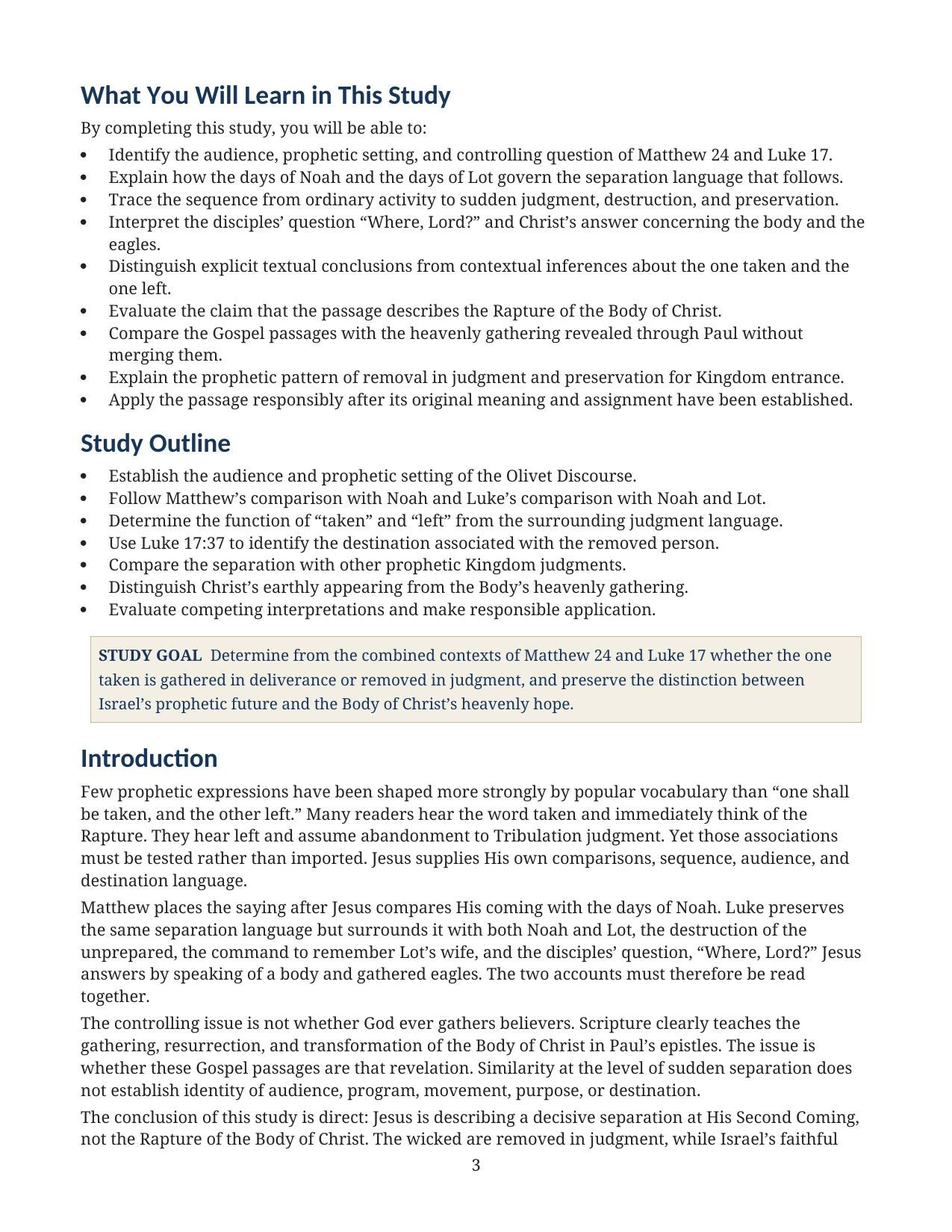
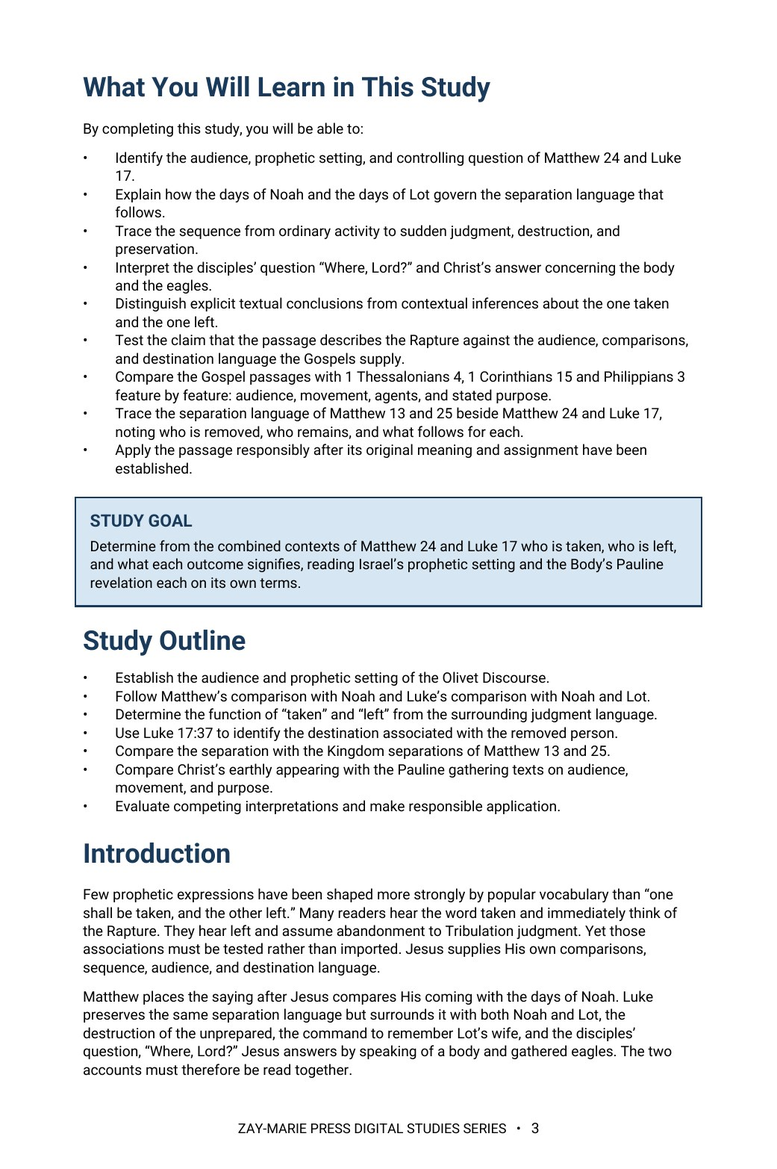
Study 29: Roboto/Standard rebuild, Conclusion Framework wording, §17 rewrites, Standard cover with PASSAGES label, previews 2/3/8, 16 pages; PAM audit v1.58
Claude-Session: https://claude.ai/code/session_01TLNFW47XCW6YAMUxScR3v4

Changed region(s): [[0.0922, 0.0613, 0.9222, 0.9815]]

diff --git a/study-29-one-taken-and-the-other-left.html b/study-29-one-taken-and-the-other-left.html
@@ -2,12 +2,12 @@
 <html lang="en"><head><meta charset="utf-8"><meta name="viewport" content="width=device-width,initial-scale=1"><title>One Taken and the Other Left - Study 29 | Zay-Marie Press</title><meta name="description" content="Examine Matthew 24:40–41 and Luke 17:34–36 as prophetic separation at Christ’s Second Coming, not the Rapture of the Body of Christ."><link rel="stylesheet" href="styles.css?v=20260928-8"><link rel="icon" type="image/png" href="assets/zay-marie-press-favicon.png"><style>
 .study-detail-page{background:#fff;color:#252525}.detail-hero{background:linear-gradient(135deg,#f8f5ec,#e3ece2);padding:58px 0}.detail-hero-grid{display:grid;grid-template-columns:minmax(250px,.72fr) minmax(0,1.28fr);gap:58px;align-items:center}.detail-cover{max-width:390px;margin:auto}.detail-cover img{display:block;width:100%;height:auto;box-shadow:0 14px 36px rgba(8,45,69,.18)}.detail-hero h1{font-size:clamp(2.7rem,5vw,4.7rem);line-height:1.02;margin:8px 0 10px;color:#143823}.detail-subtitle{font-family:Georgia,serif;font-size:1.35rem;font-weight:700;color:#082d45;margin:0 0 7px}.detail-kicker{font-family:Georgia,serif;font-style:italic;font-size:1.05rem;color:#4a4a44;margin:0 0 22px}.detail-copy{font-size:1.08rem;line-height:1.65;max-width:760px}.detail-buyline{display:flex;align-items:center;gap:18px;flex-wrap:wrap;margin-top:25px}.detail-price{font-family:Georgia,serif;font-size:2rem;font-weight:700;color:#143823}.detail-format,.preview-card .page-no{font-family:Arial,sans-serif;font-size:.76rem;font-weight:700;letter-spacing:.1em;text-transform:uppercase;color:#176b3a}.detail-button{display:inline-block;background:#176b3a;color:#fff;padding:13px 22px;font-family:Arial,sans-serif;font-size:.8rem;font-weight:700;letter-spacing:.07em;text-transform:uppercase}.detail-button.pending{opacity:.72;cursor:default}.detail-section{padding:66px 0}.detail-section.soft{background:#f6f7f2}.detail-section.cream{background:#faf8f2}.detail-section h2{color:#143823;margin:6px 0 18px;font-size:clamp(2rem,3.4vw,3rem)}.detail-section .lead{max-width:920px;font-size:1.1rem;line-height:1.62}.study-points{display:grid;grid-template-columns:repeat(3,1fr);gap:18px;margin-top:28px;margin-bottom:28px}.study-point,.scripture-card,.preview-card,.include-item{background:#fff;border:1px solid var(--line);text-align:left}.study-point{border-top:3px solid #176b3a;padding:22px}.study-point h3{color:#143823;margin:0 0 8px;font-size:1.2rem}.study-point p,.scripture-card p,.preview-card p,.include-item p{margin:0;line-height:1.55}.scripture-grid{display:grid;grid-template-columns:repeat(4,1fr);gap:14px;margin-top:24px;margin-bottom:24px}.scripture-card{padding:22px 20px;color:#143823}.scripture-card h3{margin:0 0 9px;font-family:Georgia,serif;font-size:1rem;line-height:1.35}.scripture-card p{font-size:.94rem;color:#45453f}.excerpt{max-width:900px;margin:28px auto;border-left:4px solid #b8871c;padding:10px 0 10px 28px}.excerpt blockquote{font-family:Georgia,serif;font-size:clamp(1.45rem,2.5vw,2rem);line-height:1.45;color:#143823;margin:0 0 16px}.excerpt p{line-height:1.6;margin:0}.preview-grid{display:grid;grid-template-columns:repeat(2,1fr);gap:20px;margin-top:28px;margin-bottom:28px}.preview-card{padding:18px;min-height:210px;box-shadow:0 7px 20px rgba(20,40,25,.05)}.preview-image-link{display:block;margin:0 0 18px}.preview-image-link img{display:block;width:100%;height:auto;border:1px solid #d8d1bf;box-shadow:0 8px 22px rgba(20,40,25,.1);transition:transform .18s ease,box-shadow .18s ease}.preview-image-link:hover img{transform:translateY(-2px);box-shadow:0 11px 28px rgba(20,40,25,.16)}.preview-card h3{color:#143823;margin:8px 0 10px}.preview-instruction{margin:10px 0 0;font-family:Arial,sans-serif;font-size:.78rem;letter-spacing:.04em;color:#5b5b55}.includes-grid{display:grid;grid-template-columns:repeat(4,1fr);gap:14px;margin-top:26px}.include-item{padding:22px 20px;color:#143823}.include-item h3{margin:0 0 9px;font-family:Arial,sans-serif;font-size:.86rem;line-height:1.35;letter-spacing:.02em}.include-item p{font-size:.94rem;color:#45453f}.final-buy{background:#082d45;color:#fff;border-top:4px solid #b8871c;padding:42px 48px;display:grid;grid-template-columns:1fr auto;gap:36px;align-items:center}.final-buy .eyebrow,.final-buy h2,.final-buy .detail-price{color:#fff}.final-buy h2{margin:7px 0 6px}.final-buy p{margin:0}.final-offer{text-align:center}.back-link{display:inline-block;margin-top:18px;color:#143823;font-family:Arial,sans-serif;font-weight:700;text-decoration:none}.preview-lightbox{position:fixed;inset:0;z-index:10000;display:none;align-items:flex-start;justify-content:center;background:rgba(8,22,16,.88);padding:24px;overflow:auto}.preview-lightbox.open{display:flex}.preview-lightbox img{display:block;width:auto;height:auto;max-width:none;box-shadow:0 18px 55px rgba(0,0,0,.4);background:#fff}.preview-lightbox-close{position:fixed;top:18px;right:24px;z-index:10001;width:46px;height:46px;border:1px solid rgba(255,255,255,.65);border-radius:50%;background:rgba(0,0,0,.55);color:#fff;font:32px/1 Arial,sans-serif;cursor:pointer}@media(max-width:900px){.detail-hero-grid{grid-template-columns:1fr;gap:34px}.detail-cover{max-width:330px}.study-points{grid-template-columns:repeat(2,1fr)}.scripture-grid,.includes-grid{grid-template-columns:repeat(2,1fr)}.preview-grid,.final-buy{grid-template-columns:1fr}.final-offer{text-align:left}}@media(max-width:560px){.detail-hero{padding:42px 0}.detail-section{padding:50px 0}.study-points,.scripture-grid,.includes-grid{grid-template-columns:1fr}.final-buy{padding:32px 24px}.detail-buyline{align-items:flex-start;flex-direction:column;gap:8px}.preview-lightbox{padding:58px 10px 24px}.preview-lightbox img{width:100%;max-width:100%;height:auto}}.study-distinction{max-width:920px;margin-top:28px;margin-bottom:28px;padding:26px 28px;background:#fff;border:1px solid #d8d1bf;border-left:4px solid #b8871c}.study-distinction h3{margin:0 0 10px;color:#143823}.study-distinction p{margin:0 0 14px;line-height:1.62}.study-distinction p:last-child{margin-bottom:0}.study-distinction a{font-family:Arial,sans-serif;font-weight:700;color:#176b3a;text-decoration:none}</style></head><body class="study-detail-page">
 <header class="site-header"><div class="wrap nav"><a class="logo" href="index.html" aria-label="Zay-Marie Press home"><img src="assets/zay-marie-press-logo-hq.png" alt="Zay-Marie Press" width="420" height="238"></a><button class="menu-toggle" type="button" aria-expanded="false" aria-controls="primary-nav">MENU</button><nav aria-label="Primary navigation" class="primary-nav" id="primary-nav"><a href="index.html">HOME</a><a href="books.html">BOOKS</a><a href="series.html">SERIES</a><a class="active" aria-current="page" href="digital-studies.html">DIGITAL STUDIES</a><a href="biblical-hermeneutics-course.html">COURSE</a><a href="about.html">ABOUT</a><a href="resources.html">RESOURCES</a><a href="contact.html">CONTACT</a></nav></div></header><main>
-<section class="detail-hero"><div class="wrap detail-hero-grid"><div class="detail-cover"><img src="assets/study-29-cover-v4.webp" alt="One Taken and the Other Left - Study 29 cover"></div><div><div class="eyebrow">STUDY 29 · DIGITAL STUDY</div><h1>One Taken and the Other Left</h1><p class="detail-subtitle">Matthew 24:40–41 and Luke 17:34–36 in the Context of Christ’s Second Coming</p><p class="detail-kicker">A Contextual Study of Prophetic Separation, Judgment, Preservation, and the Body’s Heavenly Hope</p><p class="detail-copy">Jesus compares His coming with the days of Noah and the days of Lot before describing one person taken and another left. Luke then records the disciples’ destination question: “Where, Lord?”</p><p class="detail-copy">This study reads both accounts together and shows why the one taken is removed in judgment while the one left belongs to the remnant preserved for Kingdom entrance. It also distinguishes this prophetic separation from the Rapture revealed through Paul.</p><div class="detail-buyline"><span class="detail-price">$5.99</span><span class="detail-format">Digital PDF</span><span class="detail-button pending" aria-disabled="true">Checkout Coming Soon</span></div></div></div></section>
+<section class="detail-hero"><div class="wrap detail-hero-grid"><div class="detail-cover"><picture><source srcset="assets/study-29-cover.webp" type="image/webp"><img src="assets/study-29-cover.jpg" alt="One Taken and the Other Left - Study 29 cover"></picture></div><div><div class="eyebrow">STUDY 29 · DIGITAL STUDY</div><h1>One Taken and the Other Left</h1><p class="detail-subtitle">Matthew 24:40–41 and Luke 17:34–36 in the Context of Christ’s Second Coming</p><p class="detail-kicker">A Contextual Study of Prophetic Separation, Judgment, Preservation, and the Body’s Heavenly Hope</p><p class="detail-copy">Jesus compares His coming with the days of Noah and the days of Lot before describing one person taken and another left. Luke then records the disciples’ destination question: “Where, Lord?”</p><p class="detail-copy">This study reads both accounts together and shows why the one taken is removed in judgment while the one left belongs to the remnant preserved for Kingdom entrance. It also distinguishes this prophetic separation from the Rapture revealed through Paul.</p><div class="detail-buyline"><span class="detail-price">$5.99</span><span class="detail-format">Digital PDF</span><span class="detail-button pending" aria-disabled="true">Checkout Coming Soon</span></div></div></div></section>
 <section class="detail-section"><div class="wrap"><div class="eyebrow">ABOUT THIS STUDY</div><h2>Let Christ’s Comparisons Control the Meaning</h2><p class="lead">Popular teaching often treats “taken” as automatic deliverance and “left” as abandonment. Jesus’ own comparisons reverse that assumption: the Flood overtook the unprepared, Lot’s world was destroyed, and a preserved company remained alive through judgment.</p><p class="lead">Matthew 24 belongs to Israel’s prophetic and Kingdom setting. Luke 17 strengthens the judgment reading through Noah, Lot, the loss and preservation of life, and the body-and-eagles answer. Meaning and assignment are established before the Body’s heavenly gathering is compared.</p><p class="lead">This is not a study of whether the Body belongs in Israel’s coming Tribulation, which Study 3 asks directly, nor of the wider Day-of-the-Lord judgment the Tribulation sits within, which Study 7 traces from the Prophets, nor of the Body’s own heavenly resurrection, which Study 49 distinguishes from every other resurrection Scripture names. Its task is narrower: to read Matthew 24 and Luke 17 on their own terms, and to show that being “taken” in this scene means judgment overtaking the unprepared, not the Body’s gathering to Christ.</p><div class="study-distinction"><h3>How These Studies Relate</h3><p>Study 29 reads the ‘one taken’ passages in Matthew 24 and Luke 17 as prophetic separation in their immediate contexts.</p><p><a href="study-03-the-body-of-christ-and-the-tribulation.html">Study 3 — The Body of Christ and the Tribulation</a> Compare the Body’s future hope with Israel’s coming Tribulation; this explains why a separation in the prophetic discourse should not automatically be called the Body’s gathering.</p><p><a href="study-07-the-day-of-the-lord.html">Study 7 — The Day of the Lord</a> Identify the wider Day-of-the-Lord judgment setting around prophetic separation; the context sharpens who is being separated and why.</p><p><a href="study-49-the-resurrections-of-scripture.html">Study 49 — The Resurrections of Scripture</a> Compare the prophetic separation traced here with the Body’s own heavenly resurrection, so the two are never treated as the same event.</p><p class="connection-guide-link"><a href="study-connections.html#study-29">Explore the full connection guide for Study 29 →</a></p></div><div class="cross-strand-note"><p class="cross-strand-label">FROM THE PARABLES STRAND</p><p>Two parables narrate readiness within the same discourse this study examines.</p><p><a href="parable-30-the-ten-virgins.html">The Ten Virgins</a> · <a href="parable-33-the-thief-and-watchful-servants.html">The Thief and Watchful Servants</a></p></div></div></section>
-<section class="detail-section soft"><div class="wrap"><div class="eyebrow">WHAT YOU’LL STUDY</div><h2>Follow the Separation From Setting to Destination</h2><div class="study-points"><div class="study-point"><h3>Prophetic Setting</h3><p>Locate Matthew 24 within Israel’s Tribulation, Second Coming, and Kingdom framework.</p></div><div class="study-point"><h3>The Days of Noah</h3><p>Identify who was overtaken by the Flood and who remained under divine preservation.</p></div><div class="study-point"><h3>Noah and Lot</h3><p>Use Luke’s double comparison to trace ordinary life, sudden destruction, and deliverance.</p></div><div class="study-point"><h3>“Where, Lord?”</h3><p>Examine Christ’s answer concerning the body and gathered eagles as destination language.</p></div><div class="study-point"><h3>Kingdom Separation</h3><p>Compare Matthew 13 and 25 without forcing every prophetic judgment into one mechanism.</p></div><div class="study-point"><h3>Pauline Distinction</h3><p>Keep Christ’s earthly appearing distinct from the Body’s heavenly gathering revealed through Paul.</p></div></div></div></section>
+<section class="detail-section soft"><div class="wrap"><div class="eyebrow">WHAT YOU’LL STUDY</div><h2>Follow the Separation From Setting to Destination</h2><div class="study-points"><div class="study-point"><h3>Prophetic Setting</h3><p>Identify the audience, prophetic setting, and controlling question of Matthew 24 and Luke 17.</p></div><div class="study-point"><h3>The Days of Noah</h3><p>Identify who was overtaken by the Flood and who remained under divine preservation.</p></div><div class="study-point"><h3>Noah and Lot</h3><p>Use Luke’s double comparison to trace ordinary life, sudden destruction, and deliverance.</p></div><div class="study-point"><h3>“Where, Lord?”</h3><p>Examine Christ’s answer concerning the body and gathered eagles as destination language.</p></div><div class="study-point"><h3>Kingdom Separation</h3><p>Trace the separation language of Matthew 13 and 25 beside Matthew 24 and Luke 17, noting who is removed, who remains, and what follows for each.</p></div><div class="study-point"><h3>Pauline Distinction</h3><p>Compare the Gospel passages with 1 Thessalonians 4, 1 Corinthians 15 and Philippians 3 on audience, movement, agents, and stated purpose.</p></div></div></div></section>
 <section class="detail-section cream"><div class="wrap"><div class="eyebrow">KEY SCRIPTURES</div><h2>Trace the Prophetic Separation</h2><div class="scripture-grid"><div class="scripture-card"><h3>Matthew 24:27–31</h3><p>The visible coming of the Son of Man after the Tribulation.</p></div><div class="scripture-card"><h3>Matthew 24:37–41</h3><p>Noah, sudden judgment, and one taken while another is left.</p></div><div class="scripture-card"><h3>Luke 17:20–33</h3><p>The Kingdom, Noah, Lot, destruction, and preserving or losing life.</p></div><div class="scripture-card"><h3>Luke 17:34–37</h3><p>The paired separations, the disciples’ question, and Christ’s destination answer.</p></div><div class="scripture-card"><h3>Matthew 13:36–50</h3><p>The removal of the wicked in Kingdom separation judgments.</p></div><div class="scripture-card"><h3>Matthew 25:31–46</h3><p>The Son of Man separating the nations at His glorious appearing.</p></div><div class="scripture-card"><h3>1 Thessalonians 4:13–18</h3><p>Resurrection and the Body’s meeting with the Lord in the air.</p></div><div class="scripture-card"><h3>1 Corinthians 15:51–54</h3><p>The Mystery of transformation into incorruption and immortality.</p></div></div></div></section>
 <section class="detail-section"><div class="wrap"><div class="eyebrow">FROM THE STUDY</div><h2>The Context Identifies the Two Outcomes</h2><div class="excerpt"><blockquote>“At Christ’s Second Coming, the one taken is removed in judgment as the unbelieving world was taken by the Flood. The one left belongs to the preserved remnant that remains alive to enter Messiah’s Kingdom.”</blockquote><p>This is a strong contextual conclusion drawn from Matthew and Luke together. The study also marks where Scripture is explicit and where responsible inference is required.</p></div></div></section>
-<section class="detail-section soft"><div class="wrap"><div class="eyebrow">A LOOK INSIDE</div><h2>Preview the Study Before You Purchase</h2><p class="preview-instruction">Click any page to enlarge it for reading.</p><div class="preview-grid"><div class="preview-card"><a class="preview-image-link" data-preview-lightbox href="assets/study-29-page-3.jpg"><img src="assets/study-29-page-3.jpg" alt="Study 29 interior preview — page 3, learning outcomes and study outline"></a><div class="page-no">Page 3</div><h3>Learning Outcomes and Study Outline</h3><p>Begin with measurable outcomes and a clear route through setting, comparison, separation, destination, and assignment.</p></div><div class="preview-card"><a class="preview-image-link" data-preview-lightbox href="assets/study-29-page-6.jpg"><img src="assets/study-29-page-6.jpg" alt="Study 29 interior preview — page 6, Luke 17 companion context"></a><div class="page-no">Page 6</div><h3>Luke’s Companion Context</h3><p>Follow Noah, Lot, destruction, preservation, and the paired separation in one coherent sequence.</p></div><div class="preview-card"><a class="preview-image-link" data-preview-lightbox href="assets/study-29-page-9.jpg"><img src="assets/study-29-page-9.jpg" alt="Study 29 interior preview — page 9, Pauline gathering comparison"></a><div class="page-no">Page 9</div><h3>Prophetic Appearing and Pauline Gathering</h3><p>Compare the passages without merging audience, purpose, movement, destination, or hope.</p></div><div class="preview-card"><a class="preview-image-link" data-preview-lightbox href="assets/study-29-page-13.jpg"><img src="assets/study-29-page-13.jpg" alt="Study 29 interior preview — page 13, guided further study"></a><div class="page-no">Page 13</div><h3>Guided Further Study</h3><p>Extend the study through seven Scripture investigations and a final two-column synthesis.</p></div></div></div></section>
+<section class="detail-section soft"><div class="wrap"><div class="eyebrow">A LOOK INSIDE</div><h2>Preview the Study Before You Purchase</h2><p class="preview-instruction">Click any page to enlarge it for reading.</p><div class="preview-grid"><div class="preview-card"><a class="preview-image-link" data-preview-lightbox href="assets/study-29-page-2.jpg"><img src="assets/study-29-page-2.jpg" alt="Study 29 interior preview — page 2, table of contents"></a><div class="page-no">Page 2</div><h3>Table of Contents</h3><p>See the full structure of the study, from the introduction through the guided further study.</p></div><div class="preview-card"><a class="preview-image-link" data-preview-lightbox href="assets/study-29-page-3.jpg"><img src="assets/study-29-page-3.jpg" alt="Study 29 interior preview — page 3, what you will learn and study outline"></a><div class="page-no">Page 3</div><h3>What You Will Learn</h3><p>Begin with the outcomes you will work toward and a clear route through setting, comparison, separation, destination, and assignment.</p></div><div class="preview-card"><a class="preview-image-link" data-preview-lightbox href="assets/study-29-page-8.jpg"><img src="assets/study-29-page-8.jpg" alt="Study 29 interior preview — page 8, Luke 17 in the King James Version"></a><div class="page-no">Page 8</div><h3>Luke’s Companion Context</h3><p>Read Luke 17:26–37 in the King James Version with notes on what to observe in each part.</p></div></div></div></section>
 <section class="detail-section"><div class="wrap"><div class="eyebrow">WHAT’S INCLUDED</div><h2>A Focused Study Built for<br>Understanding and Teaching</h2><div class="includes-grid"><div class="include-item"><h3>Contextual Reading</h3><p>Read Matthew 24 and Luke 17 within Israel’s prophetic and Kingdom setting.</p></div><div class="include-item"><h3>Synoptic Comparison</h3><p>Let Matthew and Luke interpret one another rather than isolating one saying.</p></div><div class="include-item"><h3>Explicit and Inferred Conclusions</h3><p>Distinguish what the passages state directly from conclusions established contextually.</p></div><div class="include-item"><h3>Competing Interpretations</h3><p>Evaluate deliverance, judgment, undefined-separation, and first-century readings.</p></div><div class="include-item"><h3>Prophetic Pattern</h3><p>Trace judicial removal and preservation for Kingdom entrance across related passages.</p></div><div class="include-item"><h3>Pauline Contrast</h3><p>Establish the Body’s gathering from Paul without importing it into the Gospels.</p></div><div class="include-item"><h3>Application Boundaries</h3><p>Receive historical and doctrinal instruction without claiming Israel’s assigned warnings.</p></div><div class="include-item"><h3>Teaching and Discussion Tools</h3><p>Use the summary, distinctions, Scripture tracing, questions, outline, and guided study.</p></div></div></div></section>
 <section class="detail-section cream"><div class="wrap"><div class="final-buy"><div><div class="eyebrow">STUDY 29 · DIGITAL STUDY</div><h2>One Taken and the Other Left</h2><p>Digital PDF · For personal use</p></div><div class="final-offer"><div class="detail-price">$5.99</div><span class="detail-button pending" aria-disabled="true">Checkout Coming Soon</span></div></div><a class="back-link" href="digital-studies.html">← Back to All Digital Studies</a></div></section><section class="study-method-course-bridge"><div class="wrap"><div class="study-method-course-panel"><div><div class="eyebrow">BUILD THE INTERPRETIVE METHOD</div><h2>Want More Than a Focused Study?</h2><p>Digital Studies examine particular biblical subjects and difficult passages. The 40-lesson Biblical Hermeneutics course teaches a complete, repeatable method for establishing meaning in context, determining proper assignment, and making responsible application.</p></div><a class="btn btn-primary" href="biblical-hermeneutics-course.html">BIBLICAL HERMENEUTICS COURSE</a></div></div></section></main>
 <div class="preview-lightbox" id="preview-lightbox" role="dialog" aria-modal="true" aria-label="Expanded study preview"><button class="preview-lightbox-close" type="button" aria-label="Close preview">×</button><img id="preview-lightbox-image" alt=""></div><footer class="site-footer"><div class="wrap footer-grid"><div class="footer-about"><h3>Zay-Marie Press</h3><p class="footer-tagline"><em>Where the Bible Means What It Says.</em></p><p>Zay-Marie Press is a Christian theological publisher dedicated to producing doctrinally precise, carefully structured biblical resources that equip pastors, teachers, and serious students with clarity, depth, and Scripture-anchored truth.</p><p><a href="https://zaymariepress.com">zaymariepress.com</a><br><a href="mailto:info@zaymariepress.com">info@zaymariepress.com</a></p></div><div class="footer-column"><h3>Explore</h3><div class="footer-links-stacked"><a href="books.html">Books</a><br><a href="series.html">Series</a><br><a href="biblical-hermeneutics-course.html">Course</a><br><a href="digital-studies.html">Digital Studies</a><br><a href="resources.html">Resources</a><br><a href="bible-book-summaries.html">Bible Book Summaries</a><br><a href="doctrinal-packets.html">Doctrinal Packets</a><br><a href="historical-drift.html">Historical Drift</a><br><a href="about.html">About</a><br><a href="contact.html">Contact</a></div></div><div class="footer-column"><h3>Reader Support</h3><div class="footer-links-stacked"><a href="reader-support.html#faq">FAQ</a><br><a href="reader-support.html#shipping-returns">Shipping &amp; Returns</a><br><a href="reader-support.html#digital-downloads">Digital Downloads</a><br><a href="reader-support.html#contact-support">Contact Support</a></div></div><div class="footer-column"><h3>Acts Overlap</h3><p><strong>Acts Overlap Theology Series</strong></p><p><em>Two Distinct Streams. One Overlap.</em></p><p><a href="series.html">Series Overview</a></p></div></div><div class="wrap footer-bottom">© 2026 Zay-Marie Press. All rights reserved.</div></footer><script src="site.js"></script><script>const lightbox=document.getElementById('preview-lightbox'),lightboxImage=document.getElementById('preview-lightbox-image'),closeLightbox=()=>{lightbox.classList.remove('open');lightboxImage.src='';};document.querySelectorAll('[data-preview-lightbox]').forEach(link=>link.addEventListener('click',event=>{event.preventDefault();lightboxImage.src=link.href;lightboxImage.alt=link.querySelector('img').alt;lightbox.classList.add('open');}));document.querySelector('.preview-lightbox-close').addEventListener('click',closeLightbox);lightbox.addEventListener('click',event=>{if(event.target===lightbox)closeLightbox();});document.addEventListener('keydown',event=>{if(event.key==='Escape')closeLightbox();});</script></body></html>

diff --git a/site.js b/site.js
@@ -62,7 +62,7 @@ const resourceModal=document.querySelector('#resource-modal'), resourceModalTitl
 if(resourceModal&&resourceModalTriggers.length){const closeResourceModal=()=>{resourceModal.hidden=true;document.body.classList.remove('resource-modal-open');lastResourceTrigger?.focus();};resourceModalTriggers.forEach(trigger=>trigger.addEventListener('click',()=>{lastResourceTrigger=trigger;if(resourceModalTitle)resourceModalTitle.textContent=trigger.dataset.title||'Resource';if(resourceModalDescription)resourceModalDescription.textContent=trigger.dataset.description||'';if(resourceModalLink){resourceModalLink.href=trigger.dataset.href||'#';resourceModalLink.textContent=trigger.dataset.linkText||'OPEN RESOURCE';}resourceModal.hidden=false;document.body.classList.add('resource-modal-open');resourceModalClose?.focus();}));resourceModalClose?.addEventListener('click',closeResourceModal);resourceModal.addEventListener('click',e=>{if(e.target===resourceModal)closeResourceModal();});document.addEventListener('keydown',e=>{if(e.key==='Escape'&&!resourceModal.hidden)closeResourceModal();});}
 
 /* Display the verified final-PDF page count at the primary purchase decision point. */
-const digitalStudyPageCounts={1:14,2:14,3:18,4:18,5:16,6:16,7:16,8:16,9:16,10:23,11:15,12:14,13:18,14:15,15:16,16:16,17:18,18:18,19:16,20:16,21:16,22:16,23:16,24:16,25:17,26:18,27:16,28:16,29:13,30:17,31:17,32:14,33:15,34:16,35:15,36:15,37:15,38:16,39:16,40:15,41:15,42:15,43:17,44:15,45:15,46:15,47:16,48:15,49:14,50:14,51:15,52:15,53:15,54:15,55:16,56:16,61:16,62:16,63:16,64:16,65:16,66:16,67:16,68:16,69:16,70:16,71:16};
+const digitalStudyPageCounts={1:14,2:14,3:18,4:18,5:16,6:16,7:16,8:16,9:16,10:23,11:15,12:14,13:18,14:15,15:16,16:16,17:18,18:18,19:16,20:16,21:16,22:16,23:16,24:16,25:17,26:18,27:16,28:16,29:16,30:17,31:17,32:14,33:15,34:16,35:15,36:15,37:15,38:16,39:16,40:15,41:15,42:15,43:17,44:15,45:15,46:15,47:16,48:15,49:14,50:14,51:15,52:15,53:15,54:15,55:16,56:16,61:16,62:16,63:16,64:16,65:16,66:16,67:16,68:16,69:16,70:16,71:16};
 const digitalStudyMatch=window.location.pathname.match(/\/study-(\d+)-/i);
 const digitalStudyFormat=document.querySelector('.detail-hero .detail-format');
 if(digitalStudyMatch&&digitalStudyFormat){const studyNumber=Number(digitalStudyMatch[1]),pageCount=digitalStudyPageCounts[studyNumber];if(pageCount)digitalStudyFormat.textContent=`Digital PDF · ${pageCount} Pages`;}
@@ -77,7 +77,7 @@ if(document.body.classList.contains('digital-studies-page')){
   const previewImg=studyPreview.querySelector('img'), previewCloseBtn=studyPreview.querySelector('.study-cover-preview-close'); let activeStudyCover=null;
   const closeStudyPreview=()=>{studyPreview.hidden=true;document.body.classList.remove('lightbox-open');activeStudyCover?.focus();};
   previewCloseBtn.addEventListener('click',closeStudyPreview); studyPreview.addEventListener('click',e=>{if(e.target===studyPreview)closeStudyPreview();}); document.addEventListener('keydown',e=>{if(e.key==='Escape'&&!studyPreview.hidden)closeStudyPreview();});
-  studyCards.forEach(card=>{const type=card.querySelector('.study-type'),match=type?.textContent.match(/Study\s+(\d+)/i);if(!match)return;const number=String(Number(match[1])).padStart(2,'0'),title=card.querySelector('h3')?.textContent.trim()||`Study ${Number(match[1])}`;const button=document.createElement('button');button.className='study-cover-button';button.type='button';button.setAttribute('aria-label',`Enlarge ${title} cover`);const image=document.createElement('img');image.className='study-cover-thumb';image.src=number==='01'?'assets/study-01-cover-final-v2.png':number==='13'?'assets/study-13-cover-v2.jpg':number==='29'?'assets/study-29-cover-v4.webp':number==='30'?'assets/study-30-cover-v2.webp':number==='35'?'assets/study-35-cover.webp':number==='36'?'assets/study-36-cover.webp':number==='37'?'assets/study-37-cover.webp':`assets/study-${number}-cover.jpg`;if(['06'].includes(number)){image.srcset=`assets/study-${number}-cover-240.jpg 240w, assets/study-${number}-cover-480.jpg 480w, assets/study-${number}-cover-720.jpg 720w, assets/study-${number}-cover.jpg 1024w`;image.sizes='(max-width:520px) 112px, (max-width:820px) 145px, (max-width:1100px) 155px, 185px';}image.alt=`${title} cover`;image.loading='lazy';image.decoding='async';if(number==='03')card.classList.add('study-card-03');button.appendChild(image);button.addEventListener('click',()=>{activeStudyCover=button;previewImg.src=image.src;previewImg.alt=image.alt;studyPreview.hidden=false;document.body.classList.add('lightbox-open');previewCloseBtn.focus();});const content=document.createElement('div');content.className='study-card-content';while(card.firstChild)content.appendChild(card.firstChild);card.appendChild(button);card.appendChild(content);});
+  studyCards.forEach(card=>{const type=card.querySelector('.study-type'),match=type?.textContent.match(/Study\s+(\d+)/i);if(!match)return;const number=String(Number(match[1])).padStart(2,'0'),title=card.querySelector('h3')?.textContent.trim()||`Study ${Number(match[1])}`;const button=document.createElement('button');button.className='study-cover-button';button.type='button';button.setAttribute('aria-label',`Enlarge ${title} cover`);const image=document.createElement('img');image.className='study-cover-thumb';image.src=number==='01'?'assets/study-01-cover-final-v2.png':number==='13'?'assets/study-13-cover-v2.jpg':number==='30'?'assets/study-30-cover-v2.webp':number==='35'?'assets/study-35-cover.webp':number==='36'?'assets/study-36-cover.webp':number==='37'?'assets/study-37-cover.webp':`assets/study-${number}-cover.jpg`;if(['06'].includes(number)){image.srcset=`assets/study-${number}-cover-240.jpg 240w, assets/study-${number}-cover-480.jpg 480w, assets/study-${number}-cover-720.jpg 720w, assets/study-${number}-cover.jpg 1024w`;image.sizes='(max-width:520px) 112px, (max-width:820px) 145px, (max-width:1100px) 155px, 185px';}image.alt=`${title} cover`;image.loading='lazy';image.decoding='async';if(number==='03')card.classList.add('study-card-03');button.appendChild(image);button.addEventListener('click',()=>{activeStudyCover=button;previewImg.src=image.src;previewImg.alt=image.alt;studyPreview.hidden=false;document.body.classList.add('lightbox-open');previewCloseBtn.focus();});const content=document.createElement('div');content.className='study-card-content';while(card.firstChild)content.appendChild(card.firstChild);card.appendChild(button);card.appendChild(content);});
   const style=document.createElement('style');style.textContent=`
     .digital-studies-page .study-card{display:grid;grid-template-columns:185px minmax(0,1fr);gap:20px;align-items:stretch;padding:16px;min-height:0}
     .digital-studies-page .study-cover-button{display:block;width:185px;padding:0;border:0;background:transparent;cursor:zoom-in;align-self:start}

diff --git a/controlling-documents/Digital_Studies_PAM_Audit_v1.58.md b/controlling-documents/Digital_Studies_PAM_Audit_v1.58.md
@@ -287,3 +287,4 @@ Study 15 PDF not yet supplied. Typography: none of Studies 2, 3, 6, 8 is in EB G
 - v1.55 (2026-10-01): Study 26 (The Seven Churches of Revelation) read in full against the PAM and Framework from the publisher's DOCX (17 interior pages): no conflicts. The PAM assigns no program to Revelation as a book (Rule 1) and the Framework addresses only §XVII (144,000; male child of Rev 12:5), so the study's placement of Revelation 1–3 within Israel's Prophecy line is stated as an interpretive reading drawn from the text's own markers, not a PAM assignment (same treatment as Hebrews, v1.53); the §14 Assignment paragraph and the Conclusion were reworded to say so. "No covenantal tie to the New Jerusalem" for the Body matches the Framework. Approved addition: one sentence in §8 (Thyatira) noting that the Framework extends the rod-of-iron authority to overcomers in company with Christ (Rev 2:26–27) with a pointer to Study 61. Rebuilt to the Master Standard (Roboto, five boxed callouts with Word Study, Evidence and Historical Inference as run-ins, Slate Blue tables, TOC first, Study Outline as bullets, 18 pages including cover; length exception, 17 interior). What You Will Learn points 2, 3, 7 and 8, the Study Goal, and the website "What You'll Study" points 3 and 6 were reworded in process wording (§17). Cover: publisher's artwork with ISRAEL & PROPHECY label; title restacked at the publisher's direction (THE SEVEN CHURCHES / OF / REVELATION, the last two lines reduced 30% and then a further 25%). Previews: pages 2, 3 and 11 (Promises to the Overcomers). Category: Israel & Prophecy (Category Standard v1.1).
 - v1.56 (2026-10-01): Study 27 (Israel's Seven Appointed Feasts) read in full against the PAM and Framework from the publisher's DOCX (17 interior pages): clear, no conflicts (Acts 2 Pentecost as Prophecy, Mystery from Acts 9, Prophecy and Mystery concurrent to Acts 28 per PAM Rule 4 and the Framework; 1 Corinthians 5 and 15:20–23 reported as explicit Christological identifications without placing the Body under Israel's calendar; Lord's Supper not equated with Passover per the 1 Cor 11 ruling; Matthew 24:29–31 treated as Israel's gathering, not a rapture text; Hebrews 9–10 used for Christ's sacrifice without assigning the letter to the Body; John 7, Colossians 2 and Galatians 4 reported as text, PAM silent). Rebuilt to the Master Standard (Roboto, five boxed callouts with six run-ins, Slate Blue tables, TOC first, Study Outline as bullets, 16 pages including cover, exactly 15 interior). What You Will Learn points 4, 5 and 7, the Study Goal, and website "What You'll Study" points 4 and 6 reworded in process wording (§17). Cover built from the publisher's artwork in the DOCX to the Standard (logo, side strips and lettering removed; ISRAEL & PROPHECY label, centred Poppins title and subtitle). Website previews reduced from four to three (pages 2, 3 and 6). Category: Israel & Prophecy.
 - v1.57 (2026-10-01): Study 28 (The Warning of Hebrews 6:4–6) read in full against the PAM and Framework from the publisher's DOCX (about 13 interior pages): no conflicts after two approved additions. (1) The PAM assigns no program to Hebrews as a book (PAM Rule 1), so the Study 24 anchoring sentence was added after the Introduction's Hebrews paragraph, word for word: "The Framework does not assign Hebrews as a book; this reading rests on the letter's own audience markers and on the Framework's ruling that the New Covenant it quotes (Jeremiah 31:31–34) belongs to the house of Israel and the house of Judah, the Body benefiting from Christ's blood without being the covenant party." (2) The Framework lists "heavenly calling" as a Mystery/Body marker while Study 28 reports Hebrews 3:1's own phrase "partakers of a heavenly calling" for the letter's readers; the publisher ruled Option A and the clarifying sentence was added at the end of §1's second paragraph: "'Heavenly calling' (3:1) is Hebrews' own wording, reported here as the letter's phrase; it is not equated with the Body's heavenly calling, which the Framework locates in the Mystery, and the letter ties it to Israel's wilderness history, the promised rest, and the world to come." This matches the Study 69 precedent (Hebrews 12:22–23 read to the letter's Israel-directed readers). The rest was clear (Body begins at Acts 9; Acts 9–28 concurrent; Spirit and signs language placed in Israel's last-days witness; plural baptisms not reduced to the Body's one baptism; the warnings never transferred to the Body; Study 24 pointer). Rebuilt to the Master Standard (Roboto, five boxed callouts with Textual Control as a run-in, Slate Blue tables, TOC first, Study Outline as bullets, 16 pages including cover, exactly 15 interior). One KJV table (Hebrews 6:1–8 with neutral observation notes) added; the 6:9–12 and companion-warnings tables were written but left out to hold 15 pages. What You Will Learn points 2, 9 and 10, the Study Goal, Review Q10 (now points to Study 24 by name) and website "What You'll Study" points 1 and 6 were reworded in process wording (§17). Cover built from the publisher's artwork in the DOCX to the Standard (logo and lettering removed; PASSAGES label; THE WARNING OF / HEBREWS / 6:4–6, the last two lines reduced 25%). Previews: pages 2, 3 and 5. Category: Passages.
+- v1.58 (2026-10-01): Study 29 (One Taken and the Other Left) read in full against the PAM and Framework from the publisher's DOCX (about 11 interior pages): clear, no conflicts. It follows the Framework's "one taken, one left" ruling (Matthew 24 and Luke 17 are not rapture texts but Israel's Tribulation separation, Prophecy Program); the remnant is kept ethnic-covenantal; Matthew 24:31 is not equated with 1 Thessalonians 4; the Body's gathering is kept in the Mystery. The only text change: the Conclusion's "required reading within the Acts Overlap framework" became "fits the Framework's assignment of Matthew 24 and Luke 17 to the Prophecy Program, because it preserves…". Rebuilt to the Master Standard (Roboto, five boxed callouts with Contextual Observation, Synoptic Control and Evidence Control as bold run-ins, Slate Blue tables, TOC first, Roman-numeral Teaching Outline groups as plain headings, 16 pages including cover = 15 interior). Added KJV tables with neutral "what to observe" notes (Matt 24:27, 29–31; Matt 24:37–44; Luke 17:26–37; Matt 13:40–43, 49–50; 1 Thess 4:16–17 with 1 Cor 15:51–52). §17 rewrites: What You Will Learn points 6, 7 and 8, the Study Goal, and Study Outline items 5 and 6; website "What You'll Study" points 1, 5 and 6 matched to them. Cover built from the publisher's artwork in the DOCX (logo and lettering removed; PASSAGES label; same image on PDF and website); the old study-29-cover-v4.webp special case was removed from site.js. Previews: pages 2, 3 and 8 (old pages 6, 9 and 13 removed). Page count 13 to 16. Category: Passages.
